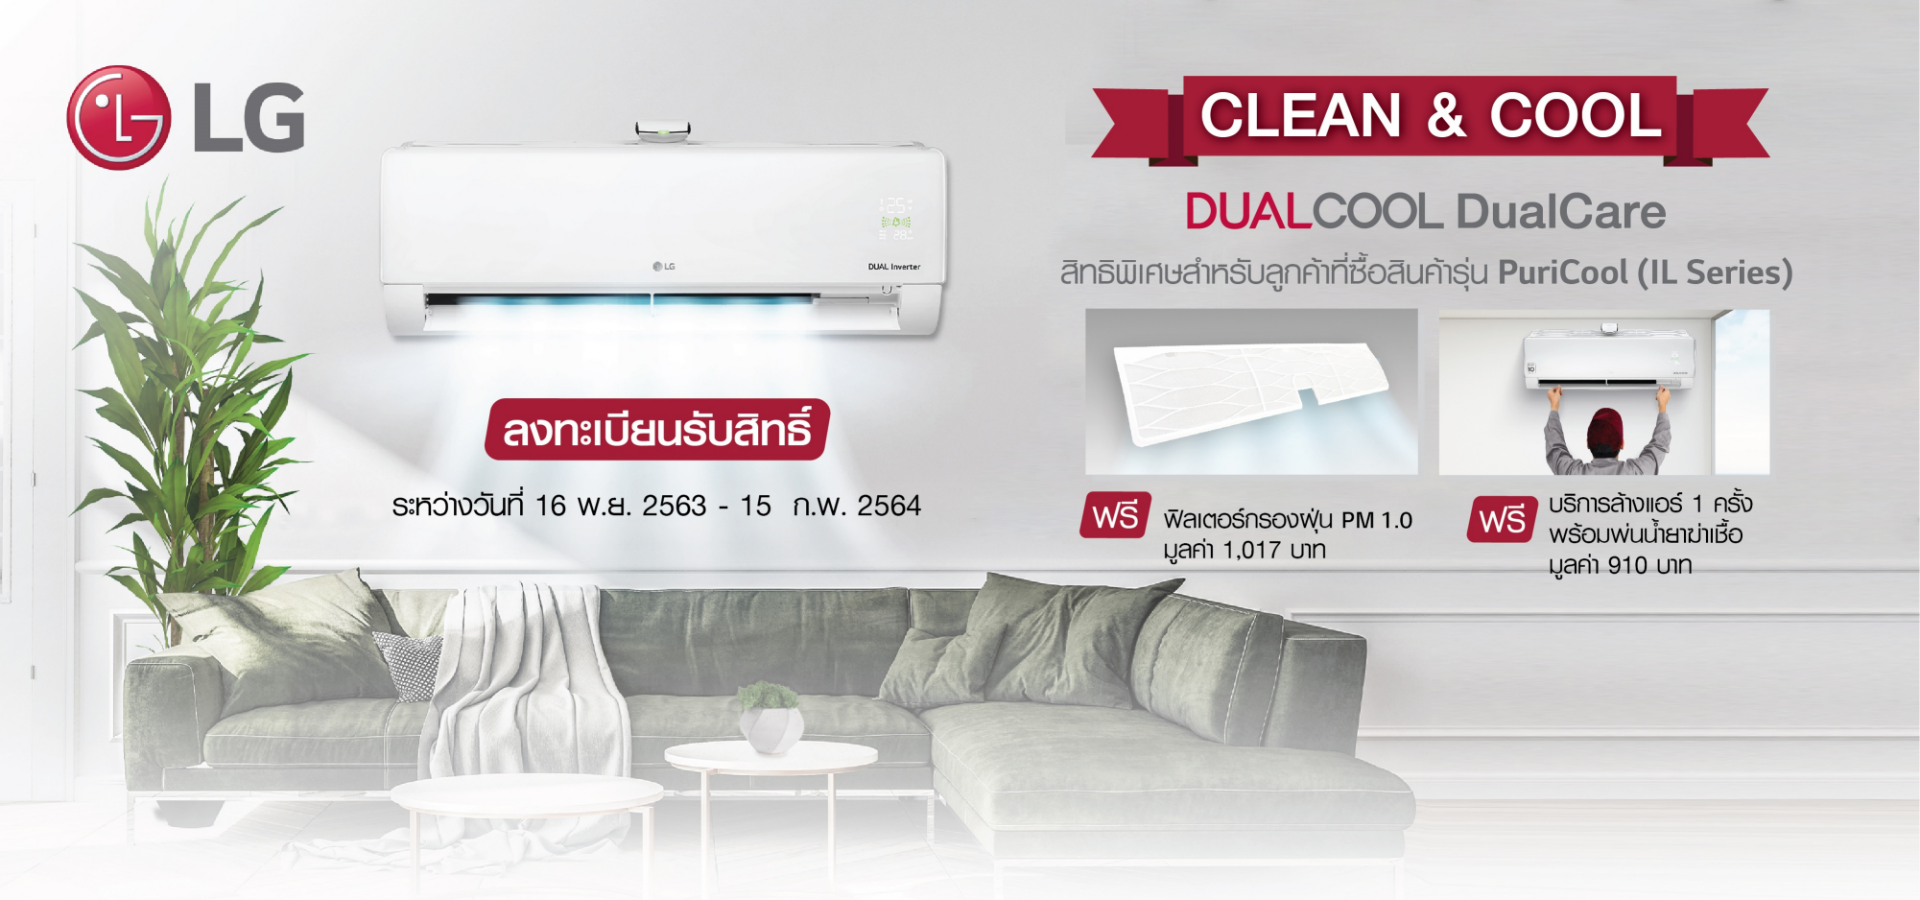
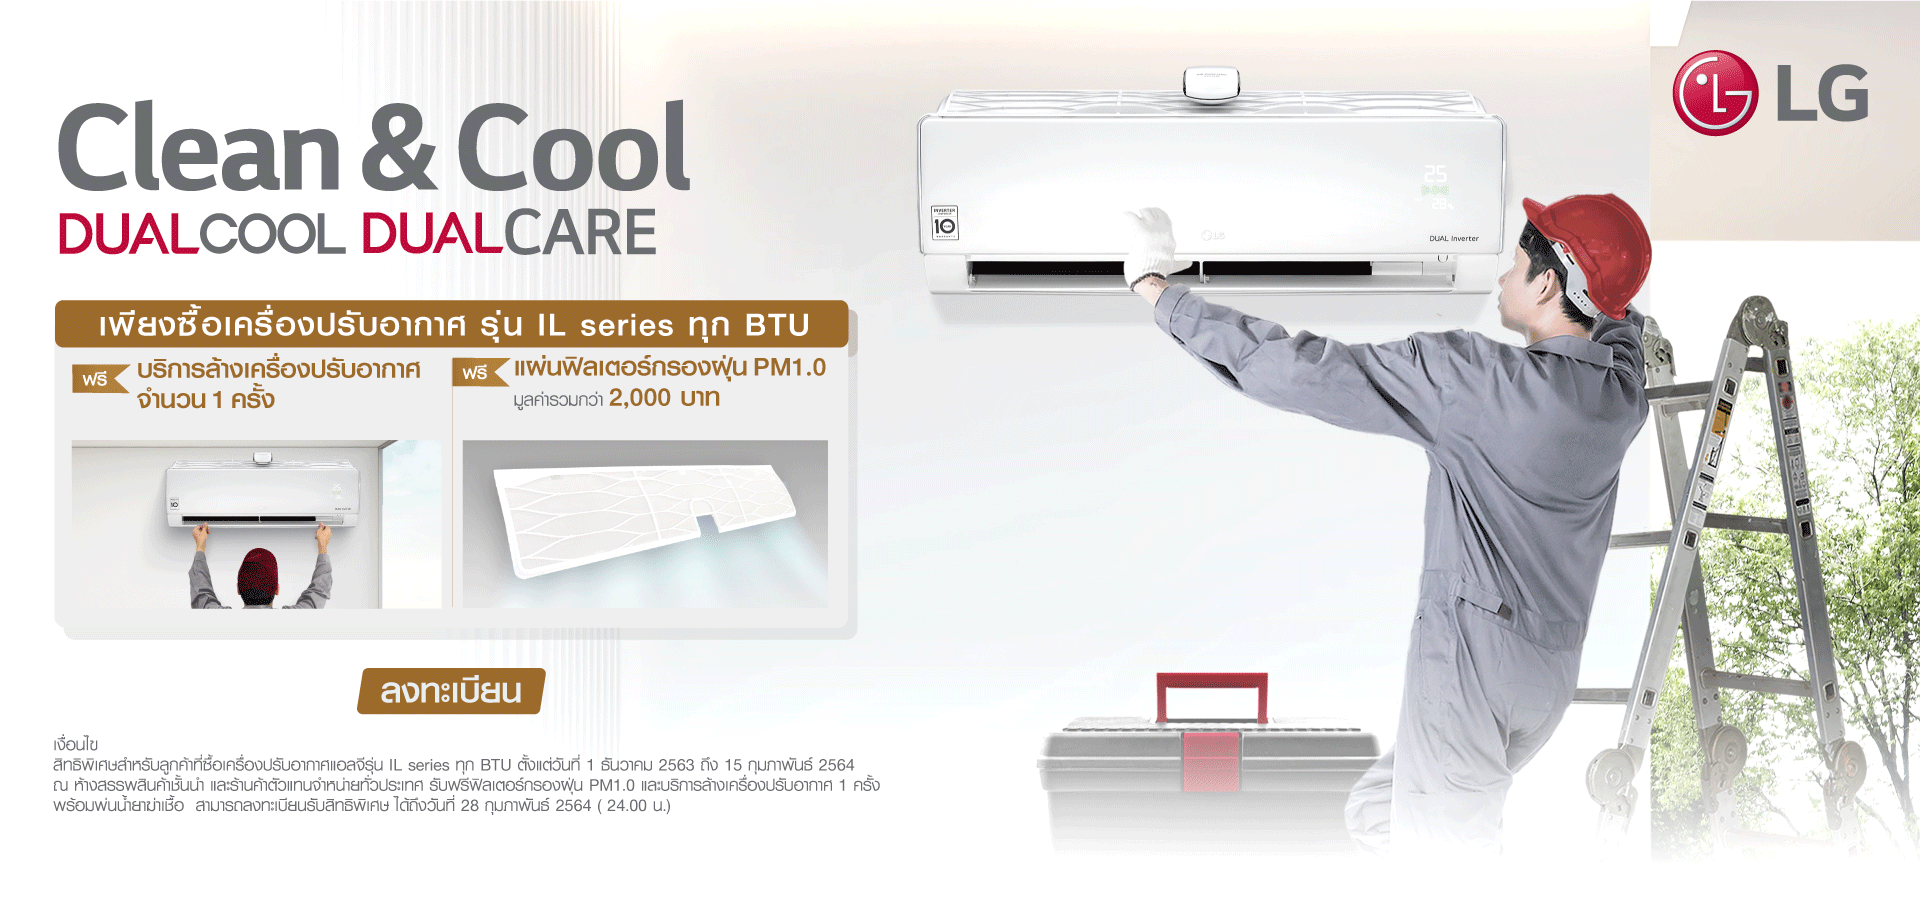
Fix : Change phase 2 for k.wandee

diff --git a/frontend/web/js/App.js b/frontend/web/js/App.js
@@ -72,9 +72,9 @@
 
             var form = $('#formRegister');
             form.validate({
-                errorElement: 'span',
+                errorElement: 'div',
                 errorPlacement: function (error, element) {
-                	error.addClass('invalid-feedback');
+                    error.addClass('invalid-feedback');
                     if(element.attr('type')=='checkbox'){
                         element.parent().next().append(error);
                     }else{
@@ -178,6 +178,8 @@
 		$('.datepicker').daterangepicker({
             singleDatePicker: true,
             autoUpdateInput: false,
+            minDate: '01/03/2021',
+            maxDate: '31/12/2021',
             locale: {
                 "format": "DD/MM/YYYY"
             },

diff --git a/frontend/views/home/_condition.php b/frontend/views/home/_condition.php
@@ -1,31 +1,22 @@
 <div class="container">
 	<div class="row">
 		<div class="col-md-12">
-			<p>เงื่อนไข:</p>
-			<p>1. สิทธิพิเศษสำหรับลูกค้าที่ซื้อเครื่องปรับอากาศรุ่น IL ทุก BTU ตั้งแต่วันที่ 16 พฤศจิกายน 2563 ถึง 31 มกราคม 2563 ณ ห้างสรรพสินค้าชั้นนำ และร้านค้าตัวแทนจำหน่ายทั่วประเทศ</p>
-			
-			<p>2.  รับฟรีฟิลเตอร์กรองฝุ่น PM1.0 และบริการล้างแอร์ 1 ครั้งพร้อมพ่นน้ำยาฆ่าเชื้อ</p>
-
-			<p>3. สามารถลงทะเบียนรับสิทธิพิเศษ ได้ถึงวันที่ 15 กุมภาพันธ์ 2563 ( 24.00 น.)</p>
-
-			<p>4. วิธีลงทะเบียนรับสิทธิพิเศษ:</p>
-			<p style="padding-left: 25px;">
-				ขั้นตอนที่ 1 : ถ่ายรูปใบเสร็จผลิตภัณฑ์เครื่องปรับอากาศ รุ่น Puricool (IL) <br/>
-				ขั้นตอนที่ 2 : ลงทะเบียนผ่าน <u>www.lgairpromotion</u><br/>
-				ขั้นตอนที่ 3 : กรอกข้อมูลให้ครบ พร้อมแนบใบเสร็จ และกด Submit 
-			</p>
+			<p>เงื่อนไข</p>
+			<p>1.สิทธิพิเศษสำหรับลูกค้าที่ซื้อเครื่องปรับอากาศแอลจีรุ่น IL series ทุก BTU ตั้งแต่วันที่ 1 ธันวาคม 2563 ถึง 15 กุมภาพันธ์ 2564 ณ ห้างสรรพสินค้าชั้นนำ และร้านค้าตัวแทนจำหน่ายทั่วประเทศ</p>
+			<p>2.รับฟรีฟิลเตอร์กรองฝุ่น PM1.0 และบริการล้างเครื่องปรับอากาศ 1 ครั้งพร้อมพ่นน้ำยาฆ่าเชื้อ </p>
+			<p>3.สามารถลงทะเบียนรับสิทธิพิเศษ ได้ถึงวันที่ 28 กุมภาพันธ์ 2564 ( 24.00 น.)</p>
 			<p>
-				หมายเหตุ<br/>
-				1). หลังจากตรวจสอบข้อมูลเรียบร้อยแล้ว ทางบริษัทจะทำการตรวจสอบรายละเอียดและติดต่อกลับไปเพื่อยืนยันสิทธิและแจ้งวันที่ประสงค์ล้างแอร์<br/>
-				2). สงวนสิทธิ์ในการตัดสิทธิ์ผู้เข้าร่วมกิจกรรมโดยไม่จำเป็นต้องแจ้งให้ทราบล่วงหน้า ในกรณีที่คณะกรรมการตรวจสอบพบว่า
-				มีการกระทำใดๆที่เข้าข่ายทุจริต หรือผิดวัตถุประสงค์ของกิจกรรม<br/>
-				3). หากข้อมูลไม่ถูกต้อง ทางบริษัทขอสงวนสิทธิ์ในการรับสิทธิพิเศษ<br/>
-				4). การรับของรางวัล (ฟิลเตอร์ PM1.0) ของรางวัลจะถูกจัดส่งให้ในวันที่ให้บริการล้างแอร์ตามที่อยู่ที่ได้ลงทะเบียนไว้<br/>
-				5). ของรางวัลไม่สามารถเปลี่ยนแปลงเป็นสิ่งของ หรือเงินสดได้ และไม่สามารถเปลี่ยนแปลงหรือโอนกรรมสิทธิ์ให้ผู้อื่นได้<br/>
-				6). คำตัดสินของคณะกรรมการถือเป็นที่สิ้นสุด<br/>
-				7). ผู้เข้าร่วมกิจกรรมได้อ่านและเข้าใจข้อความดีแล้ว ตกลงยินยอมที่จะปฏิบัติตามข้อกำหนดและเงื่อนไขที่ระบุไว้ข้างต้นทุกประการ<br/>
-				8). ทางแอลจีขอสงวนสิทธิ์สำหรับลูกค้าที่ซื้อผลิตภัณฑ์ เครื่องปรับอากาศ รุ่น Puricool (IL) ณ ห้างสรรพสินค้าชั้นนำ และร้านค้าตัวแทนจำหน่ายทั่วประเทศ
+				หมายเหตุ<br>
+				1) หลังจากตรวจสอบข้อมูลเรียบร้อยแล้ว ทางบริษัทจะทำการตรวจสอบรายละเอียดและติดต่อกลับไปเพื่อยืนยันสิทธิ์และแจ้งวันที่ประสงค์ล้างเครื่องปรับอากาศ *กำหนดให้เริ่มรับบริการได้ตั้งแต่วันที่ 1 มีนาคม 2564 – 31 ธันวาคม 2564<br/>
+				2) สงวนสิทธิ์ในการตัดสิทธิ์ผู้เข้าร่วมกิจกรรมโดยไม่จำเป็นต้องแจ้งให้ทราบล่วงหน้า ในกรณีที่คณะกรรมการตรวจสอบพบว่ามีการกระทำใดๆที่เข้าข่ายทุจริต หรือผิดวัตถุประสงค์ของกิจกรรม<br/>
+				3) หากข้อมูลไม่ถูกต้อง ทางบริษัทขอสงวนสิทธิ์ในการรับสิทธิพิเศษนี้<br/>
+				4) การรับของรางวัล (ฟิลเตอร์ PM1.0) ของรางวัลจะถูกจัดส่งให้ในวันที่ให้บริการล้างเครื่องปรับอากาศตามที่อยู่ที่ได้ลงทะเบียนไว้<br/>
+				5) ของรางวัลไม่สามารถเปลี่ยนแปลงเป็นสิ่งของ หรือเงินสดได้ และไม่สามารถเปลี่ยนแปลงหรือโอนกรรมสิทธิ์ให้ผู้อื่นได้<br/>
+				6) คำตัดสินของคณะกรรมการถือเป็นที่สิ้นสุด<br/>
+				7) ผู้เข้าร่วมกิจกรรมได้อ่านและเข้าใจข้อความดีแล้ว ตกลงยินยอมที่จะปฏิบัติตามข้อกำหนดและเงื่อนไขที่ระบุไว้ข้างต้นทุกประการ<br/>
+				8) ทางแอลจีขอสงวนสิทธิ์สำหรับลูกค้าที่ซื้อผลิตภัณฑ์ เครื่องปรับอากาศ รุ่น PuriCool (IL Series) ณ ห้างสรรพสินค้าชั้นนำ และร้านค้าตัวแทนจำหน่ายทั่วประเทศ<br/>
 			</p>
+
 		</div>
 	</div>
 </div>

diff --git a/frontend/views/home/_form.php b/frontend/views/home/_form.php
@@ -35,7 +35,7 @@ $form = ActiveForm::begin([
     <div class="row" style="margin-bottom: 40px;">
       <div class="col-sm-12">
           <div style="text-align: center;">
-            <h2 style="margin:0px;"><span style="padding: 10px 30px; background: #c13442; color: #fff;">ลงทะเบียนเพื่อรับสิทธิที่นี่</span></h2>
+            <h2 style="margin:0px;"><span style="padding: 10px 30px; background: #c13442; color: #fff;">ลงทะเบียนเพื่อรับสิทธิ์ที่นี่</span></h2>
           </div>
       </div>
     </div>

diff --git a/frontend/views/layouts/inside.php b/frontend/views/layouts/inside.php
@@ -15,6 +15,16 @@ AppAsset::register($this);
     <?php $this->registerCsrfMetaTags() ?>
     <title><?= Html::encode($this->title) ?></title>
     <?php $this->head() ?>
+
+    <!-- Global site tag (gtag.js) - Google Analytics -->
+	<script async src="https://www.googletagmanager.com/gtag/js?id=G-6NN948PCPH"></script>
+	<script>
+	window.dataLayer = window.dataLayer || [];
+	function gtag(){dataLayer.push(arguments);}
+	gtag('js', new Date());
+
+	gtag('config', 'G-6NN948PCPH');
+	</script>
 </head>
 
 <body>

diff --git a/frontend/views/layouts/main.php b/frontend/views/layouts/main.php
@@ -15,6 +15,16 @@ AppAsset::register($this);
     <?php $this->registerCsrfMetaTags() ?>
     <title><?= Html::encode($this->title) ?></title>
     <?php $this->head() ?>
+
+    <!-- Global site tag (gtag.js) - Google Analytics -->
+	<script async src="https://www.googletagmanager.com/gtag/js?id=G-6NN948PCPH"></script>
+	<script>
+	window.dataLayer = window.dataLayer || [];
+	function gtag(){dataLayer.push(arguments);}
+	gtag('js', new Date());
+
+	gtag('config', 'G-6NN948PCPH');
+	</script>
 </head>
 
 <body>
